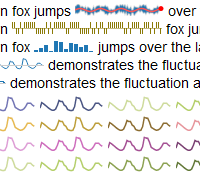
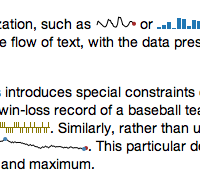
Polish sparklines example.

diff --git a/www/ex/sparklines-full.html b/www/ex/sparklines-full.html
@@ -1,162 +1,104 @@
-<script type="text/javascript" src="sunspots.js"></script>
-<script type="text/javascript" src="walk.js"></script>
-
-Lorem ipsum dolor sit amet, consectetur adipiscing elit. Pellentesque ac velit
-elit. Pellentesque placerat urna nec augue porta at adipiscing tortor
-varius. Maecenas et eros eros. Aliquam vitae nisl erat, at iaculis
-nibh. Suspendisse potenti. Morbi feugiat tincidunt est vel tincidunt. Nam congue
-rhoncus viverra. In nisi dolor, adipiscing eu consequat sit amet, egestas tempor
-eros.
-
 <script type="text/javascript+protovis">
 
-/* Scale and sizing. */
-var data = walk(100),
-    w = 100,
-    h = 10,
-    f = function(d) d.y,
-    x = pv.Scale.linear(data, function(d) d.x).range(0, w),
-    y = pv.Scale.linear(data, f).range(0, h);
+function sparkline(data, dots) {
+  var n = data.length,
+      w = n,
+      h = 10,
+      min = pv.min.index(data),
+      max = pv.max.index(data);
 
-var vis = new pv.Panel()
-    .width(w)
-    .height(h)
-    .margin(2);
-
-vis.add(pv.Line)
-    .data(data)
-    .left(function(d) x(d.x))
-    .bottom(function(d) y(d.y))
-    .strokeStyle("#999")
-  .add(pv.Dot)
-    .data([data[0], data[data.length - 1]])
-    .strokeStyle(null)
-    .fillStyle("brown")
-    .radius(2)
-  .add(pv.Dot)
-    .data([data[pv.min.index(data, f)], data[pv.max.index(data, f)]])
-    .fillStyle("steelblue");
-
-vis.render();
-
-</script>
-
-Etiam rhoncus neque sit amet lectus fringilla sed luctus sem interdum. Nullam
-non tellus turpis, sit amet mattis lorem. Nulla facilisi. Suspendisse quis dui
-elit. Vivamus mollis lobortis nisi in adipiscing. In non erat sit amet arcu
-tristique convallis. Pellentesque commodo interdum eros in interdum. Donec
-fringilla imperdiet nisi, at sagittis tellus suscipit quis. Vestibulum arcu
-erat, pellentesque ut porta sit amet, interdum id nunc.
-<p>
-
-<!-- Random line with random error envelope (and red punctuation). -->
-The quick brown fox jumps <script type="text/javascript+protovis">
-  var w = 89, h = 12, n = 75, r = 0;
-  new pv.Panel()
+  var vis = new pv.Panel()
       .width(w)
       .height(h)
-    .add(pv.Area)
-      .data(pv.range(n).map(function(i) 1.5*Math.sin(8.4*Math.PI*i/(n-1))))
-      .bottom(function(d) h / 2 - 1 + d - (r = 4 * Math.random()))
-      .height(function(d) 2 + 2 * r)
-      .left(function() this.index * (w - 3) / (n - 1))
-      .strokeStyle("rgba(200,200,200,0.5)")
-    .add(pv.Line)
-      .bottom(function(d) h / 2 + d)
-      .strokeStyle("#f55")
+      .margin(2);
+
+  vis.add(pv.Line)
+      .data(data)
+      .left(pv.Scale.linear(0, n - 1).range(0, w).by(pv.index))
+      .bottom(pv.Scale.linear(data).range(0, h))
+      .strokeStyle("#000")
+      .lineWidth(1)
     .add(pv.Dot)
-      .visible(function() this.index == (n - 1))
-      .size(6)
-      .fillStyle("#f00")
+      .visible(function() (dots && this.index == 0) || this.index == n - 1)
       .strokeStyle(null)
-    .root.render();
-</script> over the lazy dog.<br>
+      .fillStyle("brown")
+      .radius(2)
+    .add(pv.Dot)
+      .visible(function() dots && (this.index == min || this.index == max))
+      .fillStyle("steelblue");
 
-<!-- Win/loss tally. -->
-The quick brown <script type="text/javascript+protovis">
-  var w = 150, h = 12;
-  new pv.Panel()
+  vis.render();
+}
+
+function sparktick(data) {
+  var w = data.length * 2,
+      h = 11;
+
+  var vis = new pv.Panel()
       .width(w)
-      .height(h)
-    .add(pv.Rule)
-      .bottom(h / 2 - .5)
+      .height(h);
+
+  vis.add(pv.Rule)
+      .bottom(h / 2)
       .strokeStyle("#870")
-      .lineWidth(.5)
-    .add(pv.Bar)
-      .data(pv.range(1, 76).map(function() (Math.random() > 0.5) ? 0 : 1))
-      .width(1)
+    .add(pv.Rule)
+      .data(data)
       .left(function() 2 * this.index)
       .bottom(function(d) d ? h / 2 : 0)
-      .height(h / 2)
-      .strokeStyle(null)
-      .fillStyle("#870")
-    .root.render();
-</script> fox jumps over the lazy dog.<br>
+      .height(h / 2);
 
-<!-- Simple bar chart. -->
-The quick brown fox <script type="text/javascript+protovis">
-  var w = 60, h = 12;
-  new pv.Panel()
+  vis.render();
+}
+
+function sparkbar(data) {
+  var w = 60,
+      h = 12;
+
+  var vis = new pv.Panel()
       .width(w)
-      .height(h)
-    .add(pv.Bar)
-      .data([0.2, 0.3, 0.6, 0.1, 0.9, 0.8, 0.23, 0.77, 0.63, 0.43, 0.59, 0.11])
+      .height(h);
+
+  vis.add(pv.Bar)
+      .data(bars)
       .width(4)
       .left(function() 5 * this.index)
       .height(function(d) Math.round(h * d))
-      .bottom(0)
-    .root.render();
-</script> jumps over the lazy dog.<br>
+      .bottom(0);
 
-<!-- Sunspots line. -->
-This sparkline
-<script type="text/javascript+protovis">
-  var w = 48, h = 12;
-  var avg = pv.sum(sunspots) / sunspots.length;
-  new pv.Panel()
-      .width(w)
-      .height(h)
-    .add(pv.Line)
-      .data(sunspots)
-      .left(function() this.index * (w / sunspots.length))
-      .bottom(function(d) 1 + d / 220 * h)
-      .lineWidth(1)
-    .root.add(pv.Rule)
-      .bottom(1 + avg / 220 * h)
-      .strokeStyle("#ccc")
-    .root.render();
-</script>
-demonstrates the fluctuation in sunspots as a line graph and this
-<script type="text/javascript+protovis">
-  var w = 48, h = 12;
-  var avg = pv.sum(sunspots) / sunspots.length;
-  new pv.Panel()
-      .width(w)
-      .height(h)
-    .add(pv.Line)
-      .data(sunspots)
-      .left(function() this.index * (w / sunspots.length))
-      .bottom(function(d) 1 + d / 220 * h)
-      .interpolate("step-after")
-      .antialias(false)
-      .lineWidth(1)
-    .root.add(pv.Rule)
-      .bottom(1 + avg / 220 * h)
-      .strokeStyle("#ccc")
-    .root.render();
-</script> demonstrates the fluctuation as a step graph.<br>
+  vis.render();
+}
 
-<!-- More sunspots. -->
-<script type="text/javascript+protovis">
-  var w = 64, h = 16;
+function dot(color) {
   new pv.Panel()
-      .data(pv.range(26))
-      .width(w + 4)
-      .height(h + 4)
-    .add(pv.Line)
-      .data(sunspots)
-      .left(function() this.index * (w / sunspots.length))
-      .bottom(function(d) 1 + d / 220 * h)
-      .strokeStyle(pv.Colors.category19().by(pv.parent))
+      .width(6)
+      .height(9)
+    .anchor("center").add(pv.Dot)
+      .strokeStyle(null)
+      .fillStyle(color)
+      .radius(2)
     .root.render();
+}
+
 </script>
+
+A sparkline is a word-sized data visualization, such
+as <script type="text/javascript+protovis">sparkline(sunspots);</script>
+or <script type="text/javascript+protovis">sparkbar(bars);</script>, allowing
+visual representations of data to be embedded directly in prose. This avoids any
+interruption in the flow of text, with the data presented in descriptive
+context. Sparklines can be used where space is limited, unlike standalone
+figures.
+
+<p>The necessarily-small size of sparklines introduces special constraints on
+their design: minimalist designs that show data as succinctly as possible are
+favored. For example, the win-loss record of a baseball team might be use
+up-ticks for wins and down-ticks for losses: <script
+type="text/javascript+protovis">sparktick(random(150));</script>. Similarly,
+rather than using axes, ticks, labels and a legend for a line chart, a sparkline
+can show a single-series trend simply as <script
+type="text/javascript+protovis">sparkline(walk(100),1);</script>. This
+particular design comes from Edward Tufte, with red dots (<script
+type="text/javascript+protovis">dot("brown");</script>) to emphasize
+start and end, and blue dots (<script
+type="text/javascript+protovis">dot("steelblue");</script>) for minimum and
+maximum.

diff --git a/www/ex/sparklines.js b/www/ex/sparklines.js
@@ -1,0 +1,20 @@
+var bars = [0.2, 0.3, 0.6, 0.1, 0.9, 0.8, 0.23, 0.77, 0.63, 0.43, 0.59, 0.11];
+
+/** An array of sunspot observations. */
+var sunspots = [
+  40, 115, 100, 80, 60, 40, 23, 10, 10, 25, 75, 145,
+  130, 130, 80, 65, 20, 10, 5, 10, 60, 190, 180, 175,
+  120, 50, 35, 20, 10, 15, 30, 60, 105, 105, 105, 80, 65
+];
+
+/** Generates a random walk of length n. */
+function walk(n) {
+  var array = [], value = 0, i = 0;
+  while (n-- > 0) array.push(value += (Math.random() - .5));
+  return array;
+}
+
+/** Generates an array of n random bits. */
+function random(n) {
+  return pv.range(n).map(function() { return pv.random(2); });
+}
